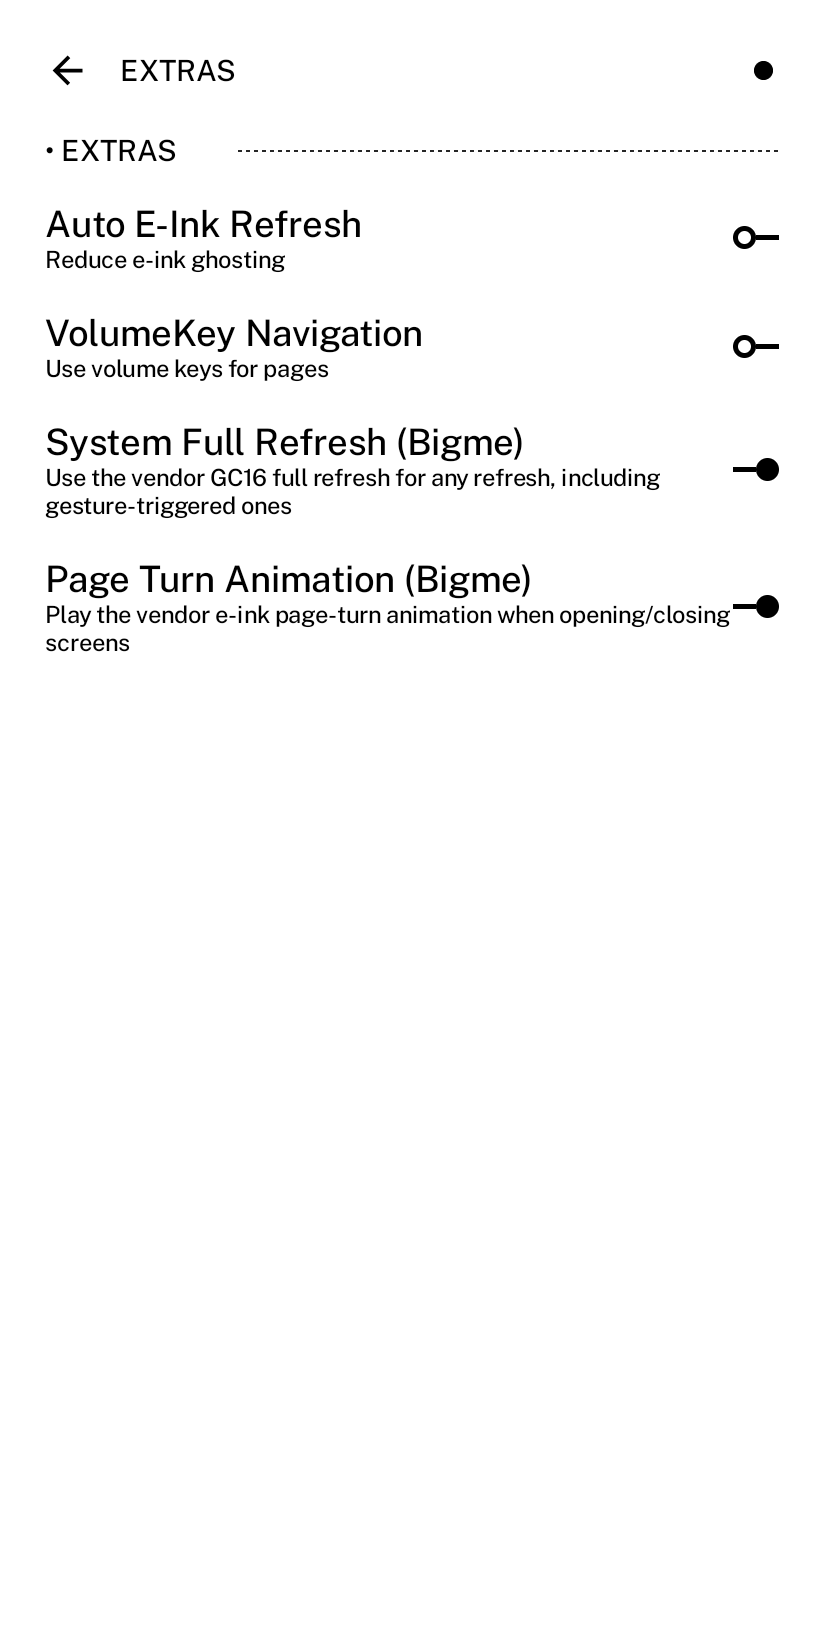
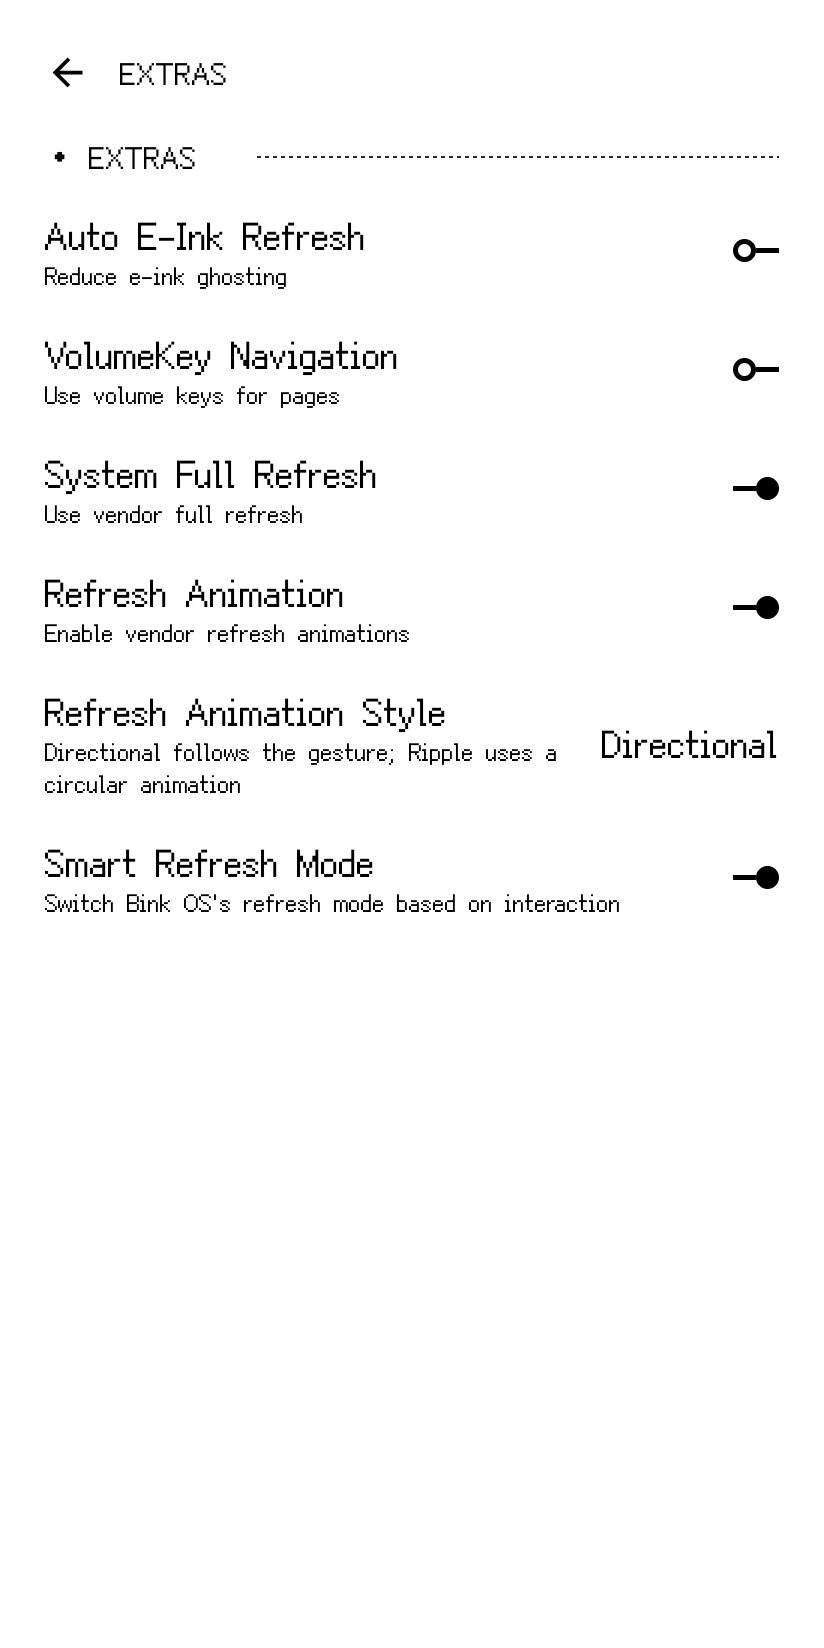
docs(readme): refresh screenshots for the current UI
Replace the stale Extras shot (pre-rename labels, no Refresh Animation Style / Smart Refresh Mode) and add app icon style and app picker shots. Update EN and zh-CN galleries together.

diff --git a/README.zh-CN.md b/README.zh-CN.md
@@ -33,8 +33,18 @@
     </tr>
     <tr>
       <td align="center">
+        <img src="docs/img/bink/app-icon-style.jpg" height="300" alt="应用图标样式与形状"><br>
+        <sub>逐应用图标样式 —— 纯文字或图标，实时预览</sub>
+      </td>
+      <td align="center">
+        <img src="docs/img/bink/app-picker.jpg" height="300" alt="应用选择器"><br>
+        <sub>应用选择器 —— 按名称搜索，分页翻动</sub>
+      </td>
+    </tr>
+    <tr>
+      <td align="center">
         <img src="docs/img/bink/extras.png" height="300" alt="墨水屏扩展选项"><br>
-        <sub>大我刷新与翻页动画开关</sub>
+        <sub>大我刷新、翻页动画风格与智能刷新开关</sub>
       </td>
       <td align="center">
         <img src="docs/img/bink/settings-language.jpg" height="300" alt="语言选择器"><br>

diff --git a/README.md b/README.md
@@ -33,8 +33,18 @@
     </tr>
     <tr>
       <td align="center">
+        <img src="docs/img/bink/app-icon-style.jpg" height="300" alt="App icon style and shape"><br>
+        <sub>Per-app icon style — text-only or icons, with a live preview</sub>
+      </td>
+      <td align="center">
+        <img src="docs/img/bink/app-picker.jpg" height="300" alt="App picker"><br>
+        <sub>App picker — search by name, paged for e-ink</sub>
+      </td>
+    </tr>
+    <tr>
+      <td align="center">
         <img src="docs/img/bink/extras.png" height="300" alt="E-ink extras"><br>
-        <sub>Bigme refresh &amp; animation switches</sub>
+        <sub>Bigme refresh, animation style &amp; Smart Refresh switches</sub>
       </td>
       <td align="center">
         <img src="docs/img/bink/settings-language.jpg" height="300" alt="Language picker"><br>
